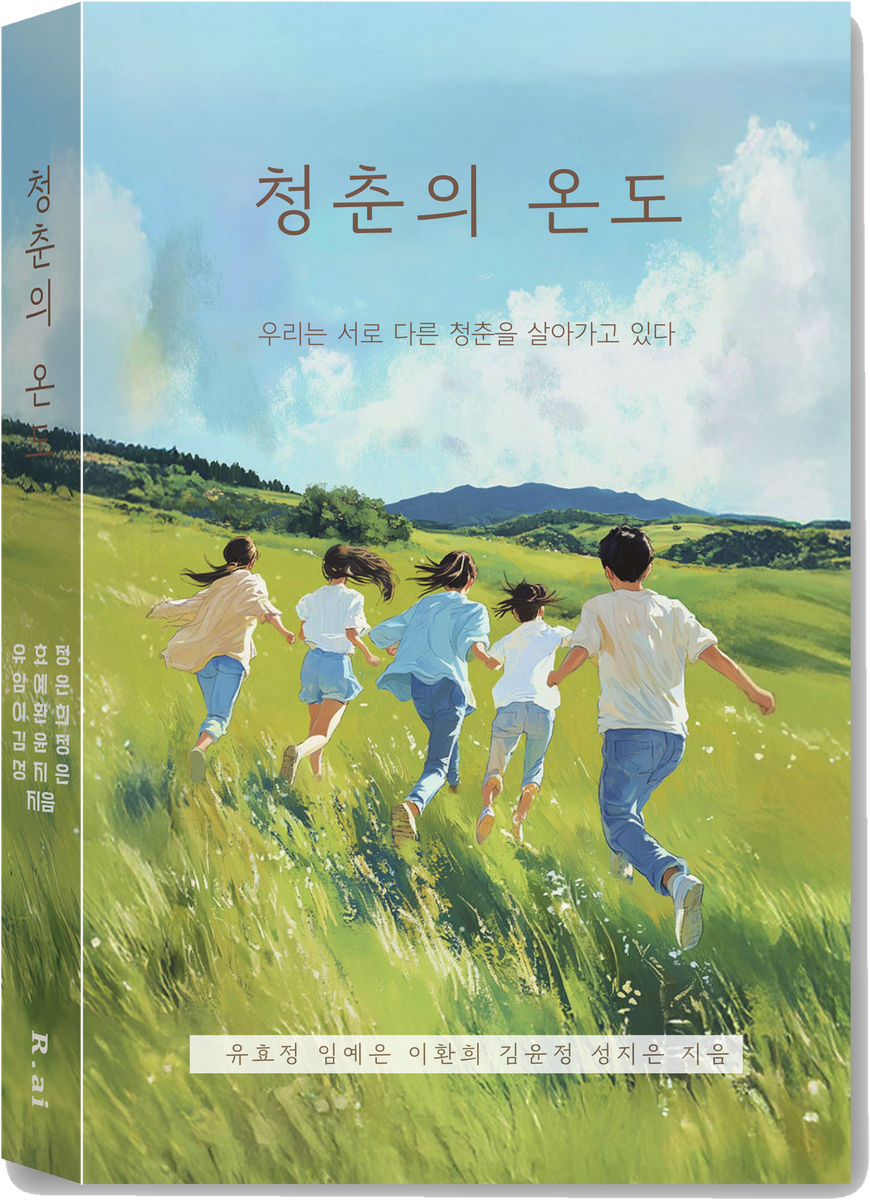
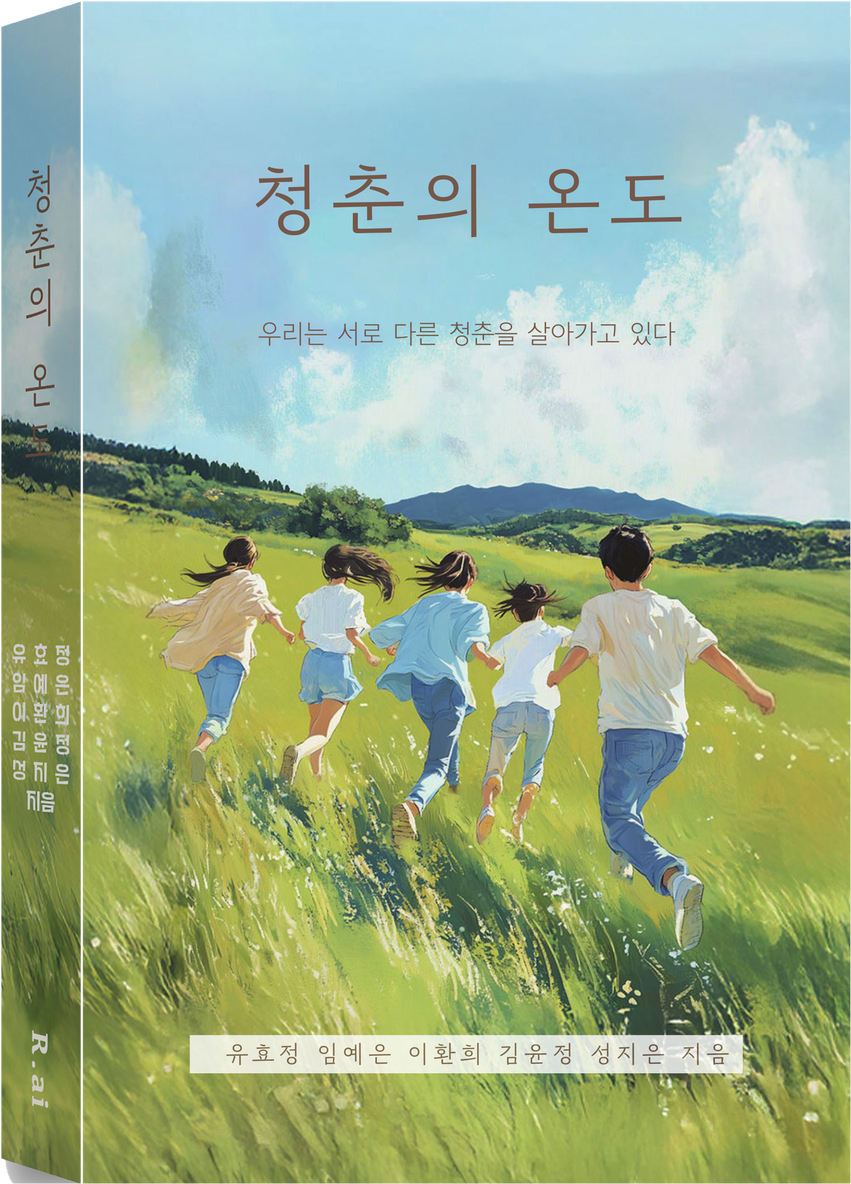
Add files via upload

diff --git a/index.html b/index.html
@@ -73,7 +73,7 @@ h2{font-family:var(--serif);font-weight:400;font-size:clamp(26px,3.6vw,40px);lin
 .mh{display:none}@media (max-width:820px){.dh{display:none}.mh{display:inline}}
 .hero .axis span{position:absolute;transform:translateX(-50%);transition:opacity .3s}
 .hero .axis{position:fixed;left:0;right:0;bottom:calc(env(safe-area-inset-bottom,0px) + 12px);height:16px;font-size:11px;color:var(--cream-2);opacity:.7;letter-spacing:.06em;z-index:3;pointer-events:none;transition:opacity .6s}
-.hero .legend{display:flex;flex-wrap:wrap;gap:8px 18px;margin-top:22px;font-size:12px;color:var(--cream-2);max-width:640px}
+.hero .legend{display:grid;gap:7px;margin-top:22px;font-size:12px;color:var(--cream-2);max-width:640px}
 .legend span::before{content:"";display:inline-block;width:7px;height:7px;border-radius:50%;background:var(--lc);box-shadow:0 0 8px var(--lc);margin-right:9px;vertical-align:middle}
 @media (max-width:820px){.hero .legend{gap:6px 14px;font-size:11px;max-width:none}}
 
@@ -91,6 +91,10 @@ h2{font-family:var(--serif);font-weight:400;font-size:clamp(26px,3.6vw,40px);lin
 .voice .eps button i{font-style:normal;color:var(--vc);margin-right:6px;font-family:var(--serif)}
 
 /* quiz */
+.duo{min-height:0;align-content:start}
+.duo-grid{display:grid;gap:24px;max-width:1120px;width:100%;justify-self:center}
+@media (min-width:1000px){.duo-grid{grid-template-columns:1fr 1fr;align-items:start}}
+.duo .glass{max-width:none}
 .quiz .q{font-family:var(--serif);font-size:clamp(19px,2.4vw,24px);line-height:1.5;min-height:3em;margin-top:14px}
 .quiz .prog{font-size:12px;color:var(--cream-2);letter-spacing:.1em}
 .quiz .opts{display:grid;gap:10px;margin-top:20px}
@@ -122,7 +126,7 @@ h2{font-family:var(--serif);font-weight:400;font-size:clamp(26px,3.6vw,40px);lin
 .empty{color:var(--cream-2);font-size:14px;padding:18px 0;border-top:1px solid var(--line)}
 
 /* about */
-.about .glass{max-width:1000px;display:grid;gap:36px;padding:clamp(28px,4vw,52px)}
+.about .glass{max-width:1120px;width:100%;justify-self:center;display:grid;gap:36px;padding:clamp(28px,4vw,52px)}
 @media (min-width:821px){.about .glass{grid-template-columns:340px 1fr;column-gap:56px;align-items:start}}
 .bookcol{display:flex;justify-content:center;align-items:center;position:relative;padding:12px 0}
 .book3d{position:relative;width:min(300px,70vw);filter:drop-shadow(0 30px 40px rgba(0,0,0,.6)) drop-shadow(0 0 30px rgba(240,160,60,.12));animation:float 7s ease-in-out infinite}
@@ -133,8 +137,7 @@ h2{font-family:var(--serif);font-weight:400;font-size:clamp(26px,3.6vw,40px);lin
 .about .recby{font-size:13px;color:var(--cream-2);margin-top:10px}
 .about h3{font-family:var(--serif);font-weight:400;font-size:17px;margin:30px 0 8px;color:var(--cream);padding-top:18px;border-top:1px solid var(--line)}
 .about p{color:var(--cream-2);font-size:14px}
-.people{display:grid;gap:8px 20px;margin-top:4px}
-@media (min-width:600px){.people{grid-template-columns:1fr 1fr}}
+.people{display:grid;gap:10px;margin-top:4px}
 .people b{font-weight:500;color:var(--cream);font-size:14px}.people b small{font-family:var(--serif);font-weight:400;color:var(--cream-2);margin-left:6px;font-size:12px}
 .people p{font-size:12.5px;line-height:1.5}
 .buyrow{grid-column:1/-1;margin-top:8px;padding-top:26px;border-top:1px solid var(--line);display:flex;flex-wrap:wrap;gap:18px 32px;align-items:center;justify-content:space-between}
@@ -236,11 +239,12 @@ footer{position:relative;z-index:2;pointer-events:auto;padding:30px var(--pad) 9
   </div>
 </section>
 
-<section class="sec quiz right" id="quiz" data-cam="all" data-temp="24" data-color="var(--c3)">
-  <div class="glass">
+<section class="sec duo" id="interact" data-cam="all" data-temp="24" data-color="var(--c3)">
+  <div class="duo-grid">
+  <div class="glass quiz" id="quiz">
     <div class="k">온도 재기</div>
     <h2>지금 당신의 온도는<br>몇 도인가요?</h2>
-    <div id="qstart"><p class="q">다섯 개의 질문. 정답은 없고, 온도는 언제든 바뀝니다.</p><button class="btn pri" id="btnStart">온도 재기</button></div>
+    <div id="qstart"><p class="q">다섯 개의 질문.<br>정답은 없고, 온도는 언제든 바뀝니다.</p><button class="btn pri" id="btnStart" style="margin-top:26px">온도 재기</button></div>
     <div id="qplay" style="display:none"><div class="prog" id="prog"></div><p class="q" id="qtext"></p><div class="opts" id="opts"></div></div>
     <div class="result" id="result">
       <div class="big"><span id="rtemp">0</span><span>℃</span></div>
@@ -249,10 +253,7 @@ footer{position:relative;z-index:2;pointer-events:auto;padding:30px var(--pad) 9
       <p class="hint" id="rhint"></p>
     </div>
   </div>
-</section>
-
-<section class="sec notes" id="notes" data-cam="notes" data-temp="29" data-color="var(--c4)">
-  <div class="glass">
+  <div class="glass notes" id="notes">
     <div class="k">온도 남기기</div>
     <h2>당신의 온도를<br>한 줄 남겨주세요</h2>
     <p class="muted" style="margin-top:12px">남긴 한 줄은 이 들판에 새로운 빛이 되어 저자들의 이야기 곁에 떠오릅니다.</p>
@@ -264,9 +265,11 @@ footer{position:relative;z-index:2;pointer-events:auto;padding:30px var(--pad) 9
     </form>
     <div class="list" id="list"></div>
   </div>
+  </div>
 </section>
 
-<section class="sec about" id="about" data-cam="all" data-temp="34" data-color="var(--c5)">
+
+<section class="sec about" id="about" style="min-height:0;padding-top:24px" data-cam="all" data-temp="34" data-color="var(--c5)">
   <div class="glass">
     <div class="bookcol"><img class="book3d" src="book3d.png" alt="『청춘의 온도』 책"></div>
     <div class="aboutcol">
@@ -423,7 +426,7 @@ footer{position:relative;z-index:2;pointer-events:auto;padding:30px var(--pad) 9
     else{tip.classList.remove('on');cv.style.cursor='crosshair';}
     if(hover||hn){const t=hover?hover.m.e.t:hn.m.n.temp;read.textContent=t.toFixed(1)+' ℃';mercury.style.height=(t/40*100)+'%';mercury.style.setProperty('--w',(t/40*100)+'%');document.documentElement.style.setProperty('--t',hover?hover.m.c:hn.m.c);}
     ambient(now);
-    {const q=document.getElementById('quiz');const start=q.offsetTop-H*1.05,end=q.offsetTop-H*0.55;const p=Math.max(0,Math.min(1,(scrollY-start)/(end-start)));cv.style.opacity=(1-p).toFixed(3);if(p>=1){requestAnimationFrame(draw);return;}}
+    {const q=document.getElementById('interact');const start=q.offsetTop-H*1.05,end=q.offsetTop-H*0.55;const p=Math.max(0,Math.min(1,(scrollY-start)/(end-start)));cv.style.opacity=(1-p).toFixed(3);if(p>=1){requestAnimationFrame(draw);return;}}
     axis.style.opacity=scrollY<H*0.6?0.7:0;[...axis.children].forEach((el,i)=>{const x=sx(window.__xOf(i*10));el.style.left=x+'px';el.style.opacity=(x<30||x>W-30)?0:1;});
     requestAnimationFrame(draw);
   }
@@ -447,7 +450,7 @@ footer{position:relative;z-index:2;pointer-events:auto;padding:30px var(--pad) 9
   // camera + temperature follow the section in view
   const SECS=[...document.querySelectorAll('[data-cam]')];let curSec=null;
   function updateSection(){const mid=innerHeight*0.5;let best=null,bd=1e9;SECS.forEach(s=>{const r=s.getBoundingClientRect();const d=r.top<=mid&&r.bottom>=mid?0:Math.min(Math.abs(r.top-mid),Math.abs(r.bottom-mid));if(d<bd){bd=d;best=s;}});
-    if(best&&best!==curSec){curSec=best;document.body.classList.toggle('quiet',['about','quiz','notes'].includes(best.id));setTemp(best.dataset.temp,best.dataset.color);if(pinCam)return;manual=false;camT=Object.assign({},CAMS[best.dataset.cam]||CAMS.all);}}
+    if(best&&best!==curSec){curSec=best;document.body.classList.toggle('quiet',['about','interact'].includes(best.id));setTemp(best.dataset.temp,best.dataset.color);if(pinCam)return;manual=false;camT=Object.assign({},CAMS[best.dataset.cam]||CAMS.all);}}
   addEventListener('scroll',updateSection,{passive:true});addEventListener('resize',()=>{curSec=null;updateSection();});updateSection();
 
   /* ---------- reader panel ---------- */
@@ -494,7 +497,7 @@ footer{position:relative;z-index:2;pointer-events:auto;padding:30px var(--pad) 9
   function show(){$('prog').textContent=(qi+1)+' / '+Q.length;$('qtext').textContent=Q[qi].q;const o=$('opts');o.innerHTML='';Q[qi].o.forEach(([txt,t,ch])=>{const b=document.createElement('button');b.textContent=txt;b.onclick=()=>{sum+=t;votes[ch]=(votes[ch]||0)+1;qi++;qi<Q.length?show():finish();};o.appendChild(b);});}
   function finish(){const avg=Math.round(sum/Q.length*10)/10;let best=null,bs=-1;Object.keys(CH).forEach(k=>{const s=(votes[k]||0)*100-Math.abs(CH[k].t-avg);if(s>bs){bs=s;best=k;}});res={temp:avg,ch:CH[best]};
     $('qplay').style.display='none';$('result').classList.add('on');$('rtemp').textContent=avg.toFixed(1);$('rtitle').textContent='「'+res.ch.title+'」 · '+res.ch.by;$('rline').textContent=res.ch.line;$('rdesc').textContent=res.ch.desc;$('btnGo').href='#'+res.ch.id;
-    $('quiz').dataset.temp=avg;$('quiz').dataset.color=CHN[res.ch.id].c;setTemp(avg,CHN[res.ch.id].c);$('tr').value=Math.min(40,Math.max(0,avg));$('tv').textContent=avg.toFixed(1);}
+    $('interact').dataset.temp=avg;$('interact').dataset.color=CHN[res.ch.id].c;setTemp(avg,CHN[res.ch.id].c);$('tr').value=Math.min(40,Math.max(0,avg));$('tv').textContent=avg.toFixed(1);}
   $('btnStart').onclick=()=>{$('qstart').style.display='none';$('qplay').style.display='block';qi=0;sum=0;votes={};show();};
   $('btnAgain').onclick=()=>{$('result').classList.remove('on');$('qplay').style.display='block';qi=0;sum=0;votes={};show();$('rhint').textContent='';};
   $('btnCopy').onclick=async()=>{const s='지금 나의 온도는 '+res.temp.toFixed(1)+'℃. 「'+res.ch.title+'」와 가장 가까운 온도. — 『청춘의 온도』';try{await navigator.clipboard.writeText(s);$('rhint').textContent='복사했어요. 스토리나 메시지에 붙여 넣으세요.';}catch{$('rhint').textContent=s;}};
